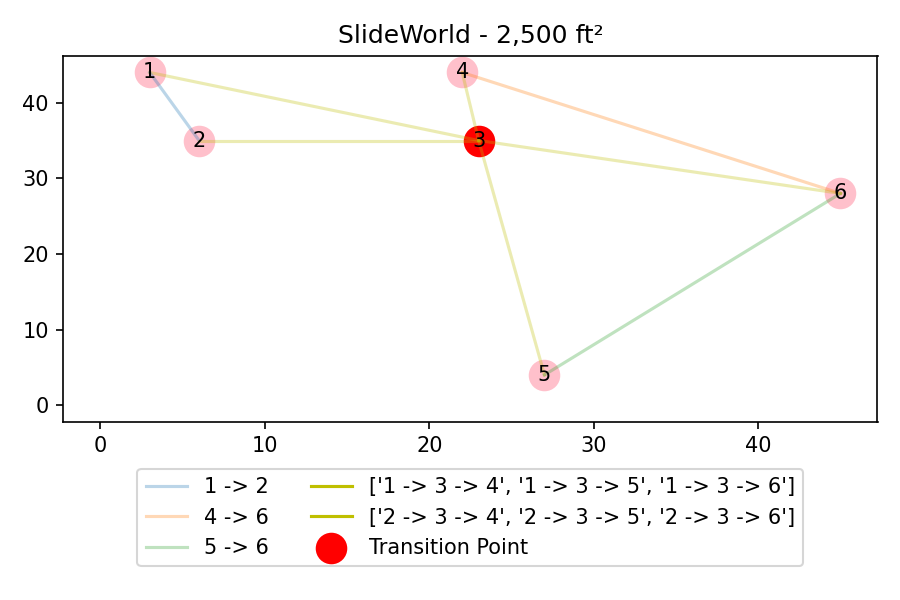
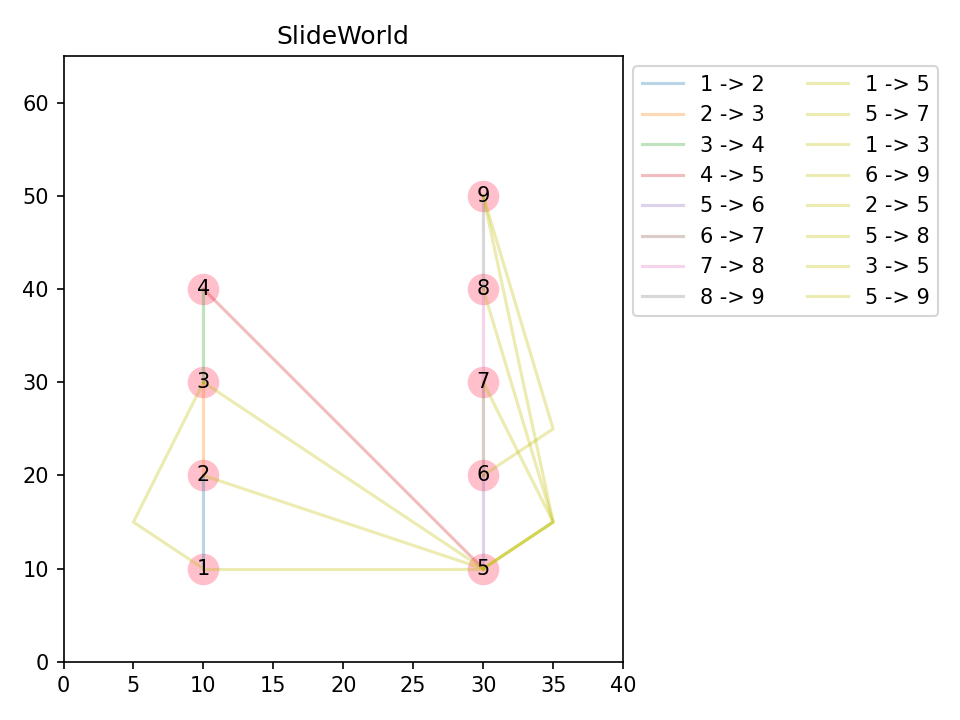
hw5

diff --git a/Homework5/hw5_exercise2.py b/Homework5/hw5_exercise2.py
@@ -25,30 +25,20 @@ get from i to j using only two slides.
 (c) Using part (b), write a divide-and-conquer algorithm that takes as input
 the number of landings n and outputs the list of all the slides used by your attraction.
 
->> python hw5_exercise1.py   
+>> python hw5_exercise2.py   
 Direct Slides:
-[1 -> 3, 3 -> 4, 6 -> 7, 7 -> 8, 8 -> 9]
+['1 -> 2', '2 -> 3', '3 -> 4', '4 -> 5', '5 -> 6', '6 -> 7', '7 -> 8']
 Transition Slides:
-['1 -> 5 -> 6', '1 -> 5 -> 7', '1 -> 5 -> 8', '1 -> 5 -> 9']
-['2 -> 5 -> 6', '2 -> 5 -> 7', '2 -> 5 -> 8', '2 -> 5 -> 9']
-['3 -> 5 -> 6', '3 -> 5 -> 7', '3 -> 5 -> 8', '3 -> 5 -> 9']
-['4 -> 5 -> 6', '4 -> 5 -> 7', '4 -> 5 -> 8', '4 -> 5 -> 9']
+['1 -> 5', '5 -> 7', '1 -> 3', '2 -> 5', '5 -> 8', '3 -> 5']
+Number of points: 8  Total slides: 13
 
->> python hw5_exercise1.py 5
+>> python hw5_exercise2.py 9
 
 Direct Slides:
-[1 -> 2, 4 -> 5]
+['1 -> 2', '2 -> 3', '3 -> 4', '4 -> 5', '5 -> 6', '6 -> 7', '7 -> 8', '8 -> 9']
 Transition Slides:
-['1 -> 3 -> 4', '1 -> 3 -> 5']
-['2 -> 3 -> 4', '2 -> 3 -> 5']
-
->> python hw5_exercise1.py 5 50
-
-Direct Slides:
-[1 -> 2, 4 -> 5]
-Transition Slides:
-['1 -> 3 -> 4', '1 -> 3 -> 5']
-['2 -> 3 -> 4', '2 -> 3 -> 5']
+['1 -> 5', '5 -> 7', '1 -> 3', '6 -> 9', '2 -> 5', '5 -> 8', '3 -> 5', '5 -> 9']      
+Number of points: 9  Total slides: 16
 
 '''
 
@@ -59,7 +49,7 @@ import matplotlib.pyplot as plt #Run python -m pip install matplotlib
 class SlideWorld():
     def __init__(self):
         self.slides = []
-        self.maxSlides = 11
+        self.maxSlides = 8
         self.slideColor = 'pink'
         self.transitionSlideColor = 'red'
         self.transitionLineColor = 'y'
